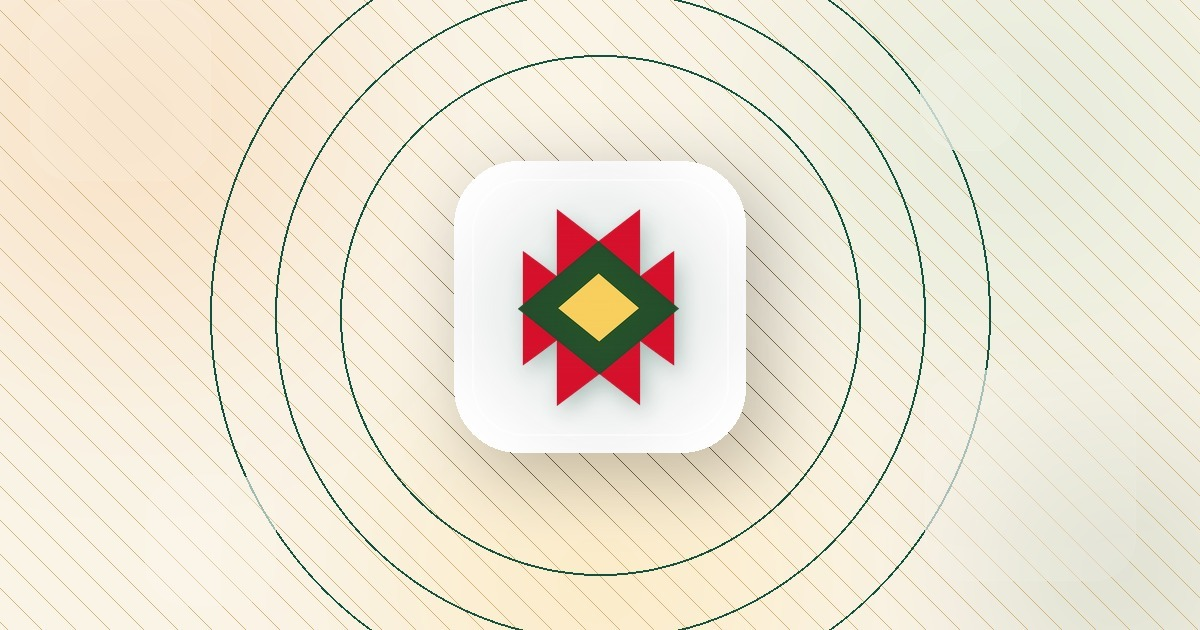
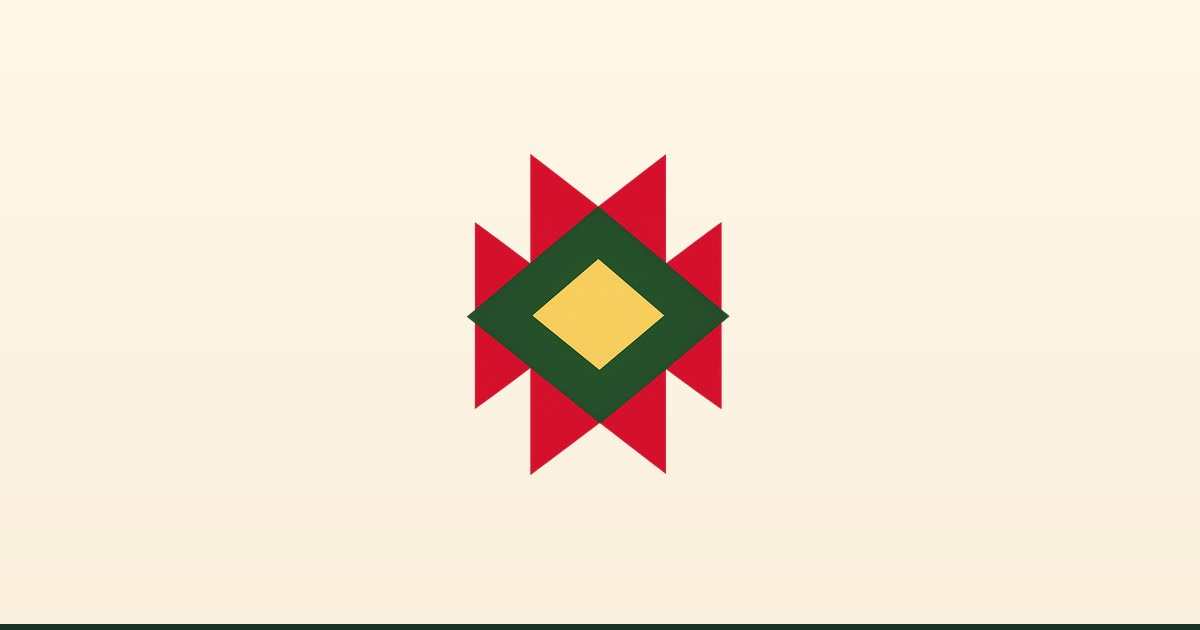
Add iOS launch screens, repair corrupt images, use Kuwaiti «شنو»
iOS launch: an installed PWA opened to a blank white screen before the
splash, because iOS ignores manifest background_color and needs an explicit
apple-touch-startup-image per device size. Adds 26 images under
public/launch (13 device classes x both orientations) on the #fff7e8 brand
ground with the Sadu mark centred, plus the matching links in index.html.

Corrupt images: eight files in public/ began with EF BF BD (the UTF-8
replacement character) instead of the PNG/JPEG magic bytes — a binary that
had been round-tripped through a text pipeline. Three of them were live:

  - icon-192.png  — default push notification icon (firebase-messaging-sw.js)
  - icon-180.png  — default push notification badge (same file)
  - og-order-v8.jpg — og:image and twitter:image, so every shared link
    rendered a broken preview

The two icons are regenerated from the intact ios-icon-192-v7 and
apple-touch-icon-v7 assets. og-order-v8.jpg is rebuilt as a clean 1200x630
branded card from logo-optimized.png; it is a functional replacement for an
unreadable file, so a designed card can still supersede it.

The remaining five (icon-512, og-image-v2, og-order-v2/v3/v7) are
unreferenced and left untouched. This corruption predates these changes:
both parents of the last merge already carried it.

Wording: «وش رايك» -> «شنو رأيك» in the two upsell prompts. This screen is
written in Kuwaiti throughout («شنو مقعدك لي هالحزة؟», «خوش طلب»), and
[…]

diff --git a/index.html b/index.html
@@ -58,6 +58,34 @@
         event.preventDefault();
       });
     </script>
+  
+    <!-- iOS launch screens (generated) -->
+    <link rel="apple-touch-startup-image" media="screen and (device-width: 430px) and (device-height: 932px) and (-webkit-device-pixel-ratio: 3) and (orientation: portrait)" href="/launch/launch-1290x2796.png" />
+    <link rel="apple-touch-startup-image" media="screen and (device-width: 430px) and (device-height: 932px) and (-webkit-device-pixel-ratio: 3) and (orientation: landscape)" href="/launch/launch-2796x1290.png" />
+    <link rel="apple-touch-startup-image" media="screen and (device-width: 393px) and (device-height: 852px) and (-webkit-device-pixel-ratio: 3) and (orientation: portrait)" href="/launch/launch-1179x2556.png" />
+    <link rel="apple-touch-startup-image" media="screen and (device-width: 393px) and (device-height: 852px) and (-webkit-device-pixel-ratio: 3) and (orientation: landscape)" href="/launch/launch-2556x1179.png" />
+    <link rel="apple-touch-startup-image" media="screen and (device-width: 428px) and (device-height: 926px) and (-webkit-device-pixel-ratio: 3) and (orientation: portrait)" href="/launch/launch-1284x2778.png" />
+    <link rel="apple-touch-startup-image" media="screen and (device-width: 428px) and (device-height: 926px) and (-webkit-device-pixel-ratio: 3) and (orientation: landscape)" href="/launch/launch-2778x1284.png" />
+    <link rel="apple-touch-startup-image" media="screen and (device-width: 390px) and (device-height: 844px) and (-webkit-device-pixel-ratio: 3) and (orientation: portrait)" href="/launch/launch-1170x2532.png" />
+    <link rel="apple-touch-startup-image" media="screen and (device-width: 390px) and (device-height: 844px) and (-webkit-device-pixel-ratio: 3) and (orientation: landscape)" href="/launch/launch-2532x1170.png" />
+    <link rel="apple-touch-startup-image" media="screen and (device-width: 375px) and (device-height: 812px) and (-webkit-device-pixel-ratio: 3) and (orientation: portrait)" href="/launch/launch-1125x2436.png" />
+    <link rel="apple-touch-startup-image" media="screen and (device-width: 375px) and (device-height: 812px) and (-webkit-device-pixel-ratio: 3) and (orientation: landscape)" href="/launch/launch-2436x1125.png" />
+    <link rel="apple-touch-startup-image" media="screen and (device-width: 414px) and (device-height: 896px) and (-webkit-device-pixel-ratio: 3) and (orientation: portrait)" href="/launch/launch-1242x2688.png" />
+    <link rel="apple-touch-startup-image" media="screen and (device-width: 414px) and (device-height: 896px) and (-webkit-device-pixel-ratio: 3) and (orientation: landscape)" href="/launch/launch-2688x1242.png" />
+    <link rel="apple-touch-startup-image" media="screen and (device-width: 414px) and (device-height: 896px) and (-webkit-device-pixel-ratio: 2) and (orientation: portrait)" href="/launch/launch-828x1792.png" />
+    <link rel="apple-touch-startup-image" media="screen and (device-width: 414px) and (device-height: 896px) and (-webkit-device-pixel-ratio: 2) and (orientation: landscape)" href="/launch/launch-1792x828.png" />
+    <link rel="apple-touch-startup-image" media="screen and (device-width: 414px) and (device-height: 736px) and (-webkit-device-pixel-ratio: 3) and (orientation: portrait)" href="/launch/launch-1242x2208.png" />
+    <link rel="apple-touch-startup-image" media="screen and (device-width: 414px) and (device-height: 736px) and (-webkit-device-pixel-ratio: 3) and (orientation: landscape)" href="/launch/launch-2208x1242.png" />
+    <link rel="apple-touch-startup-image" media="screen and (device-width: 375px) and (device-height: 667px) and (-webkit-device-pixel-ratio: 2) and (orientation: portrait)" href="/launch/launch-750x1334.png" />
+    <link rel="apple-touch-startup-image" media="screen and (device-width: 375px) and (device-height: 667px) and (-webkit-device-pixel-ratio: 2) and (orientation: landscape)" href="/launch/launch-1334x750.png" />
+    <link rel="apple-touch-startup-image" media="screen and (device-width: 320px) and (device-height: 568px) and (-webkit-device-pixel-ratio: 2) and (orientation: portrait)" href="/launch/launch-640x1136.png" />
+    <link rel="apple-touch-startup-image" media="screen and (device-width: 320px) and (device-height: 568px) and (-webkit-device-pixel-ratio: 2) and (orientation: landscape)" href="/launch/launch-1136x640.png" />
+    <link rel="apple-touch-startup-image" media="screen and (device-width: 768px) and (device-height: 1024px) and (-webkit-device-pixel-ratio: 2) and (orientation: portrait)" href="/launch/launch-1536x2048.png" />
+    <link rel="apple-touch-startup-image" media="screen and (device-width: 768px) and (device-height: 1024px) and (-webkit-device-pixel-ratio: 2) and (orientation: landscape)" href="/launch/launch-2048x1536.png" />
+    <link rel="apple-touch-startup-image" media="screen and (device-width: 834px) and (device-height: 1194px) and (-webkit-device-pixel-ratio: 2) and (orientation: portrait)" href="/launch/launch-1668x2388.png" />
+    <link rel="apple-touch-startup-image" media="screen and (device-width: 834px) and (device-height: 1194px) and (-webkit-device-pixel-ratio: 2) and (orientation: landscape)" href="/launch/launch-2388x1668.png" />
+    <link rel="apple-touch-startup-image" media="screen and (device-width: 1024px) and (device-height: 1366px) and (-webkit-device-pixel-ratio: 2) and (orientation: portrait)" href="/launch/launch-2048x2732.png" />
+    <link rel="apple-touch-startup-image" media="screen and (device-width: 1024px) and (device-height: 1366px) and (-webkit-device-pixel-ratio: 2) and (orientation: landscape)" href="/launch/launch-2732x2048.png" />
   </head>
   <body>
     <div id="root">

diff --git a/src/pages/CustomerSite.tsx b/src/pages/CustomerSite.tsx
@@ -5519,7 +5519,7 @@ export default function CustomerSite() {
                   <div className="text-right min-w-0 flex-1 space-y-1">
                     <span className="inline-flex items-center text-[9px] font-extrabold uppercase tracking-wider text-amber-800 bg-amber-100/50 rounded-full px-2.5 py-0.5">توليفة تكمّل سلتك 🍲</span>
                     <p className="text-xs sm:text-sm font-black text-brand line-clamp-1 group-hover:text-amber-950 transition-colors">
-                      وش رايك نكمّلها مع <span className="text-amber-800 font-extrabold">{suggestion.name}</span>؟
+                      شنو رأيك نكمّلها مع <span className="text-amber-800 font-extrabold">{suggestion.name}</span>؟
                     </p>
                   </div>
                 </div>
@@ -8201,7 +8201,7 @@ function ProductModal({
                   `مزيج مذهل! الكثير يفضلون إضافة "${recommendedAddonName}" لتعزيز النكهة 😋`,
                   // عبارات فيها تفاعل
                   `ناقصك شيء واحد عشان يكمل الطلب.. "${recommendedAddonName}"! 😉`,
-                  `وش رأيك تكملها وتضيف "${recommendedAddonName}"؟ ماراح تندم 😍`,
+                  `شنو رأيك تكملها وتضيف "${recommendedAddonName}"؟ ماراح تندم 😍`,
                   `الأغلبية يطلبون "${recommendedAddonName}" مع هذا الطلب.. جربه! 👍`,
                   // عبارات وصفية ومغرية
                   `غوص في بحر النكهات المتناغمة مع "${recommendedAddonName}" 🌊`,
